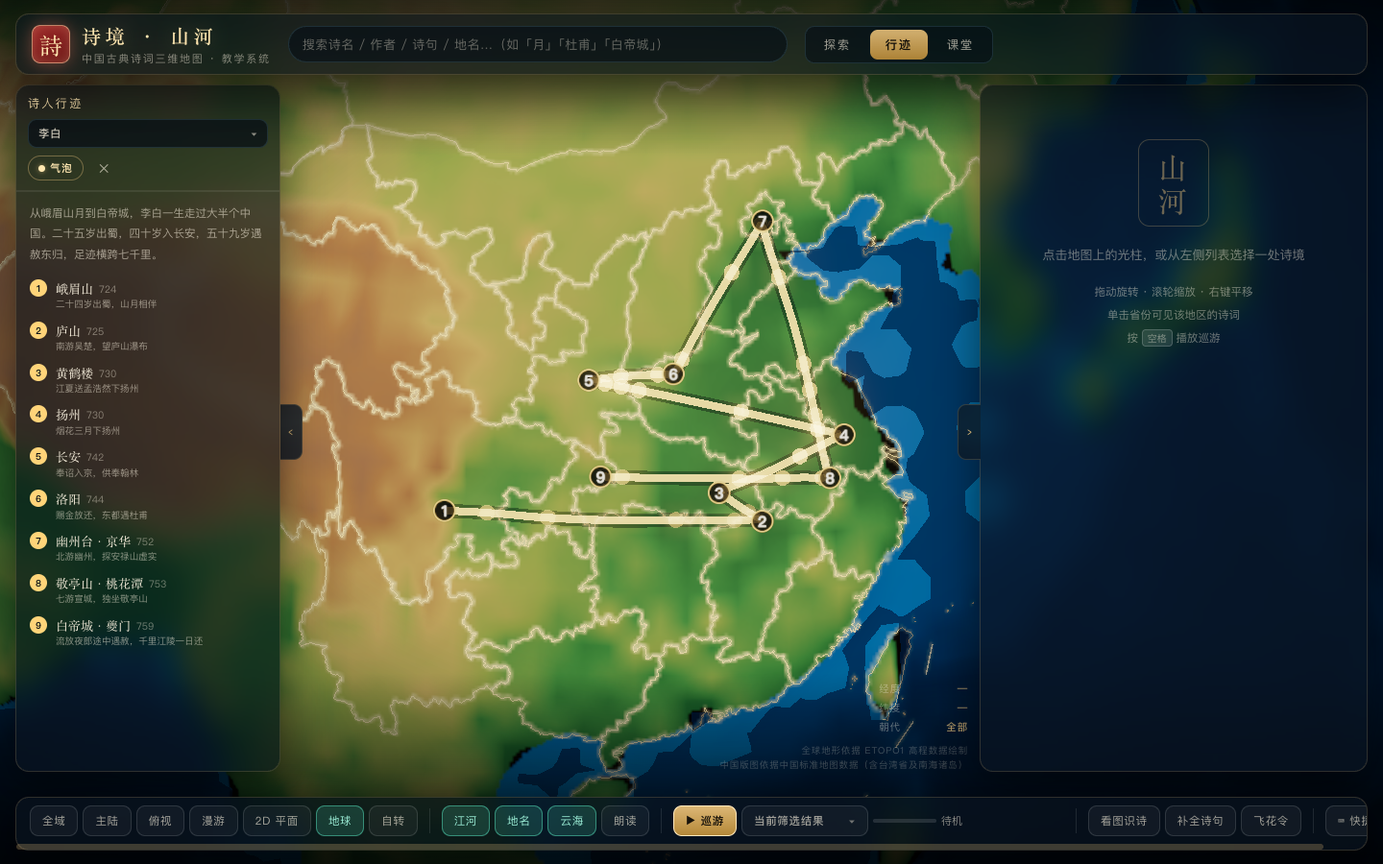
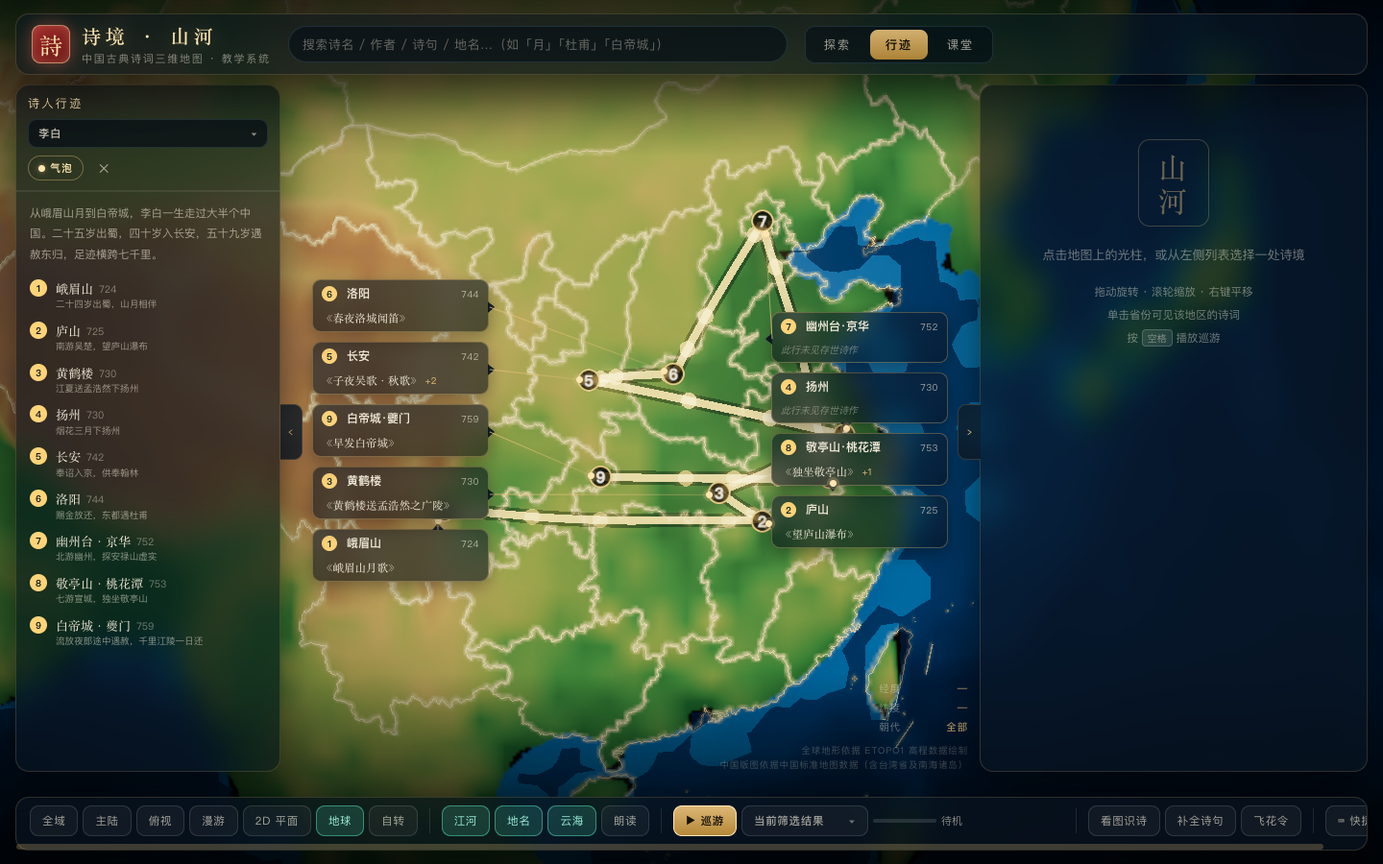
修：地球行迹的诗词卡片整批消失 + 引线端点压在序号数字上
Bug 1：地球模式下选中诗人后，9 张诗词卡片全部消失（2D / 3D 正常）。
  根因是 main.js updateRouteBubbles 在地球分支里借 `!m.sprite.visible` 当可见性闸门。
  这句原先**巧合成立**：setRouteFocus 只隐藏非行迹站点，sprite.visible === true
  恰好等价于「属于本行迹」。上一轮为了让序号牌不被加色白晕洗白，把它改成
  「聚焦时 79 个地标全部收起」，等价关系就断了 —— 9 张卡片全被判不可见，
  而序号牌 / 球面航线 / 右侧面板 / 拾取表**全都正常**。实测 earth 下 kids=9 / shown=0，
  而 front 与 hasMarker 全是 true。
  修法：气泡该不该出现由 bubbleTargets() 自己回答（它只含当前行迹的站点）。
  并在 setRouteFocus / pickables 补上「这个字段只表达『光点画不画』，
  不代表站点是否存在」的注释，免得以后再被借走。

  同源问题：地球地名标注也读 m.sprite.visible，聚焦时整体消失；而 2D / 3D
  读的是 beacon.visible、行迹站点照常标注，两个模式表现不一致。
  但实测地名标注**不该**恢复：地球相机近（1.99）、站点投影铺满全屏，
  与气泡卡片相交 6 对、其中 4 条被卡片中心盖住；3D 版图（相机 12.8、站点挤在中央）
  同样这两个东西是 0 相交。卡片每张头部就写着地名，所以让地名整层让位
  （updateEarthLabels 的 on 闸门加 && !globe.routeFocus）。

Bug 2：2D 与地球模式下，气泡引线在序号侧的米色端点落在序号圆圈正中，
  把数字糊掉（用户截图：长安站的「5」）。
  修法：端点沿引线方向退回到圆圈**边缘**，退回量解 |−u·t − off| = R：
    - R 是圆圈屏幕半径。两份 numberTexture 都是 128px 画布但圆不同 ——
      effects.js 是 arc(46)+lineWidth 5 → ×0.758，globe.js 是 arc(52)+lineWidth 7 → ×0.867；
    - off 是圆心相对锚点的屏幕偏移。锚点并不落在圆心上（3D 下它取
      「牌中心 + 0.31·comp」，约 10px 偏高），只回推一个 R 的话端点停在圆内偏上、
      仍然压着数字（实测 3D 扬州站端点距圆心 3px，而圆圈半径 25px）。
    引线长度同步缩短，否则会穿进圆圈在数字上留一条金线。

  踩到的两个坑：
    - entries 里的 inset 在 ui.updateRouteBubbles 组装 items 时被漏掉
      （items.push 没带它），回推量恒为 0，而卡片 / 引线方向 / 防重叠全都正常；
    - effects.js 的 stops 元素里站点 id 字段叫 siteId，`site` 装的是 beacon 对象，
      写 s.site.id 静默得到 undefined，按 id 找序号牌永远找不到。

回归：
  e2e-earth 119 → 126（卡片节点数 = 站数 / **实际显示数** = 站数 / 内容非空壳 /
[…]

diff --git a/js/main.js b/js/main.js
@@ -1516,7 +1516,16 @@ const placedEarth = [];
 function updateEarthLabels() {
   const layer = document.getElementById('labelLayer');
   const on = state.layers.labels && globe.built && globe.root.visible
-    && camera.position.length() <= EARTH_LABEL_DIST;
+    && camera.position.length() <= EARTH_LABEL_DIST
+    /* 行迹聚焦时整层不标地名。理由不是「地标被隐去了」（那是另一回事，见下），
+       而是**气泡卡片已经承担了地名的职责**：每张卡片头部就是「序号 + 地名 + 年份」，
+       再加一层地名只会互相压住。实测（1440×900，李白行迹 9 站）：
+         3D 版图 —— 地名 7 条 / 气泡 9 张 / 相交 0 对；
+         地球   —— 地名 9 条 / 气泡 9 张 / 相交 6 对，其中 4 条地名被卡片中心盖住。
+       差异来自几何：版图相机在 12.8，站点挤在中央一小块，气泡停在左右空白带里；
+       地球相机在 2.0 上下，站点投影铺满全屏、一直铺进停靠带。
+       让地名让位，比给两层之间加一套互相避让（它们各自每帧独立算，有先后依赖）划算。 */
+    && !globe.routeFocus;
   if (!on) {
     if (layer) layer.style.display = 'none';
     return;
@@ -1529,7 +1538,10 @@ function updateEarthLabels() {
 
   const list = [];
   for (const m of globe.markers) {
-    if (!m.sprite.visible) continue;                 // 行迹聚焦时隐去的站点不标注
+    /* 这里**不要**读 m.sprite.visible。它只表达「这个光点画不画」——
+       行迹聚焦时 setRouteFocus 会把 79 个地标全部收起，照着它过滤等于
+       「选中诗人的瞬间地球上所有地名一起消失」。上面那道闸门才是表达
+       「聚焦时要不要标地名」的地方，几何判断留在这里，两者别混。 */
     const p = m.sprite.position;
     if (p.dot(cam) <= p.lengthSq()) continue;        // 背面：被地球挡住，见 globe.js pickables
     list.push({ m, depth: cam.distanceTo(p) });
@@ -1572,6 +1584,31 @@ function updateEarthLabels() {
   ui.syncLabels(entries);
 }
 
+/* 序号牌贴图里「圆圈外缘半径 ÷ 贴图半宽」。两份 numberTexture 都是 128px 见方的画布，
+   但圆的半径与描边宽度不同：
+     effects.js（地图档）：arc(46) + lineWidth 5 → 外缘 48.5 → 48.5 / 64 = 0.758
+     globe.js（地球档）  ：arc(52) + lineWidth 7 → 外缘 55.5 → 55.5 / 64 = 0.867
+   气泡引线的端点要落在圆圈**边缘**而不是圆心 —— 那枚 7px 的金色圆点（带光晕后
+   视觉直径约 13px）正压在序号数字上会把它糊掉（用户截图：长安站的「5」）。 */
+const BADGE_RING_RATIO = { map: 0.758, earth: 0.867 };
+
+const tmpFwd = new THREE.Vector3();
+
+/**
+ * 序号牌圆圈在屏幕上的半径（px）。
+ *
+ * 序号牌走深度补偿，屏幕尺寸本来就基本恒定，但仍然逐帧算而不是写死像素常数 ——
+ * 以后改了序号牌尺寸 / 取景距离，写死的常数会静默失配，端点又压回数字上，
+ * 而那种退化只能靠肉眼在截图里发现。
+ */
+function badgeRingPx(sprite, ratio) {
+  camera.getWorldDirection(tmpFwd);
+  const d = tmpV.copy(sprite.position).sub(camera.position).dot(tmpFwd);
+  if (!(d > 0.001)) return 0;
+  const texPx = sprite.scale.x / (d * 2 * Math.tan(camera.fov * Math.PI / 360)) * window.innerHeight;
+  return texPx / 2 * ratio;
+}
+
 /**
  * 行迹气泡：把每处行迹地点的三维坐标投影成屏幕坐标，交给 ui 定位。
  *
@@ -1589,15 +1626,38 @@ function updateRouteBubbles() {
   const w = window.innerWidth, h = window.innerHeight;
   const entries = targets.map((t) => {
     let v = null;
+    /* 序号牌圆圈的屏幕半径：引线的端点要从锚点沿引线方向回推这么多，
+       落在圆圈边缘而不是压在数字上（见 BADGE_RING_RATIO）。 */
+    let inset = 0;
+    let badge = null;
     if (state.earth) {
       /* 地球模式下锚点在球面上，必须另算：
          1) 用球面可见性判据（P·C > |P|²）排除背面 —— 引线不该指到球后面去；
-         2) 沿法线再抬一点，让引线落在序号牌上而不是穿进球里。 */
+         2) 沿法线再抬一点，让引线落在序号牌上而不是穿进球里
+            （序号牌建在半径 1.016 处，1.015 正好齐平）。
+
+         ★ 这里**不能**读 m.sprite.visible 当闸门。
+         地标 sprite 在行迹聚焦时会被 globe.setRouteFocus 整批收起（理由见那边：
+         加色白晕比序号牌还大一圈，会透上来把数字洗白），而「收起」表达的是
+         「这个光点不画」，**不是**「这个站点不存在」—— 两件事共用了一个字段，
+         语义被撑坏了。
+
+         早先这里借它当闸门是**巧合成立**的：那时 setRouteFocus 只隐藏「非行迹」
+         站点，于是 sprite.visible === true 恰好等价于「该站点属于本行迹」。
+         改成全部收起之后这个等价关系就断了 —— 9 个气泡全被判不可见，
+         地球模式下行迹的诗词卡片整批消失，而 2D / 3D 好好的
+         （那两边读的是 beacon.visible，与地标 sprite 无关）。
+         实测：earth 下 kids=9 / shown=0，而 front 与 hasMarker 全是 true。
+
+         气泡该不该出现，bubbleTargets() 自己就回答了：它只包含当前行迹的站点。
+         这里只需要回答「它在球正面吗」。 */
       const m = globe.markerOf(t.siteId);
-      if (!m || !m.sprite.visible) return { x: 0, y: 0, visible: false };
+      if (!m) return { x: 0, y: 0, visible: false };
       const p = m.sprite.position;
       if (p.dot(camera.position) <= p.lengthSq()) return { x: 0, y: 0, visible: false };
       v = p.clone().multiplyScalar(1.015);
+      const eb = globe.routeBadges.find((x) => x.siteId === t.siteId);
+      if (eb) { inset = badgeRingPx(eb.sprite, BADGE_RING_RATIO.earth); badge = eb.sprite; }
     } else {
       const b = effects.beacons.get(t.siteId);
       if (!b || !b.visible) return { x: 0, y: 0, visible: false };
@@ -1611,14 +1671,26 @@ function updateRouteBubbles() {
       const comp = b.group.scale.y || 1;
       v = b.group.position.clone();
       v.y += (state.flat ? 0.30 : 2.36) * comp;
+      const mb = effects.routeBadges.find((x) => x.siteId === t.siteId);
+      if (mb) { inset = badgeRingPx(mb.sprite, BADGE_RING_RATIO.map); badge = mb.sprite; }
     }
     const p = v.project(camera);
     const onScreen = p.z < 1 && p.x > -1.05 && p.x < 1.05 && p.y > -1.05 && p.y < 1.05;
-    return {
-      x: (p.x * 0.5 + 0.5) * w,
-      y: (-p.y * 0.5 + 0.5) * h,
-      visible: onScreen,
-    };
+    const ax = (p.x * 0.5 + 0.5) * w;
+    const ay = (-p.y * 0.5 + 0.5) * h;
+
+    /* 锚点**不一定落在序号牌圆心上** —— 3D 下它取的是「牌中心 + 0.31·comp」（约 10px
+       偏高），2D 下也高 0.18·comp。所以只回推一个半径还不够：端点会停在圆内偏上，
+       仍然压着数字（实测 3D 的扬州站端点距圆心只有 3px，而圆圈半径 25px）。
+       这里把「圆心相对锚点的屏幕偏移」也算出来交给 ui，让它按引线方向扣掉。 */
+    let offX = 0;
+    let offY = 0;
+    if (badge) {
+      const q = badge.position.clone().project(camera);
+      offX = (q.x * 0.5 + 0.5) * w - ax;
+      offY = (-q.y * 0.5 + 0.5) * h - ay;
+    }
+    return { x: ax, y: ay, visible: onScreen, inset, offX, offY };
   });
   ui.updateRouteBubbles(entries);
 }

diff --git a/tools/e2e-earth.js b/tools/e2e-earth.js
@@ -503,6 +503,46 @@
       rec('球面序号牌数 = 行迹站数', app.globe.routeBadges.length === nStops,
         `${app.globe.routeBadges.length} / ${nStops}`);
 
+      /* ---- 行迹的诗词卡片（气泡）：地球模式下必须跟着一起显示 ----
+         ★ 这里守的是一个**真漏过**的 bug。原先这一节只查了「序号牌数 = 站数」，
+         而气泡的可见性走的是另一条路 —— main.js updateRouteBubbles 里那句
+         `if (!m || !m.sprite.visible) return {...visible:false}`。
+         它借的是「地标光点画不画」这个字段；setRouteFocus 改成「聚焦时连行迹站点
+         的地标一起收起」（为了不让加色白晕洗白序号牌）之后，这句话就把 9 张卡片
+         整批判成不可见 —— 而序号牌、球面航线、右侧面板、拾取表**全都正常**，
+         所以当时这套测试全绿，是用户截图报上来的。
+         教训：口径要量**实际显示了几张**，不能只量 DOM 里有没有节点 ——
+         节点一直在，只是全被 display:none 了。 */
+      const bubbleShown = () => [...document.querySelectorAll('#bubbleLayer > *')]
+        .filter((el) => getComputedStyle(el).display !== 'none');
+      const bubbleDom = document.querySelectorAll('#bubbleLayer > *').length;
+      rec('带着行迹进地球 → 诗词卡片节点数 = 站数', bubbleDom === nStops, `${bubbleDom} / ${nStops}`);
+      rec('带着行迹进地球 → 诗词卡片真的显示出来（不是被判成不可见）',
+        bubbleShown().length === nStops, `显示 ${bubbleShown().length} / ${nStops}`);
+      /* 卡片内容必须渲染完整。注意**不能**断言「每张都有诗名」——
+         一条行迹里有的站点这位诗人并未留下作品（李白 9 站里有 2 站如此），
+         那种卡片显示的是「此行未见存世诗作」，是正常形态。
+         这里守的是「不能是空壳」：要么诗名、要么那句说明，二者必居其一。 */
+      const withPoem = bubbleShown().filter((el) => el.querySelector('.rb-poem-line')).length;
+      const noPoem = bubbleShown().filter((el) => el.querySelector('.rb-none')).length;
+      rec('诗词卡片带着地名与诗名（无作品的站点要有说明，不能是空壳）',
+        bubbleShown().every((el) => el.querySelector('.rb-name')
+          && (el.querySelector('.rb-poem-line') || el.querySelector('.rb-none'))),
+        `${withPoem} 张有诗名 / ${noPoem} 张写「未见存世诗作」`);
+
+      /* 负向验证：气泡不再借「地标光点画不画」当判据 ——
+         手动把 79 个地标全收起来，卡片不该跟着消失。
+         修复前正是这个状态（sprite.visible 全 false → 9 张全部被判不可见），
+         所以这条在修复前必然变红，不是恒真断言。 */
+      const keepMarkerVis = app.globe.markers.map((m) => m.sprite.visible);
+      app.globe.markers.forEach((m) => { m.sprite.visible = false; });
+      await sleep(400);
+      const shownAfterHide = bubbleShown().length;
+      app.globe.markers.forEach((m, i) => { m.sprite.visible = keepMarkerVis[i]; });
+      await sleep(300);
+      rec('负向验证：把地标光点全收起来，诗词卡片不受影响（没再借 sprite.visible）',
+        shownAfterHide === nStops, `${shownAfterHide} / ${nStops}`);
+
       /* 关键：航线的抬升必须是「贴着地表飞」的量级。
          实测最大半径 = 站点地形半径(≤1.0286) + 抬升(≤0.11)。 */
       let rMax2 = 0;
@@ -599,6 +639,41 @@
       }));
       rec('序号牌就落在站点地标的位置上（取代地标不丢位置）', worstD < 0.05,
         `最大偏差 ${worstD.toFixed(4)} 个地球半径`);
+
+      /* ---- 地名标注：地球行迹聚焦时整层让位 ----
+         理由不是「地标被隐去了」，而是气泡卡片每张头部就写着地名，再加一层会互相压住。
+         实测（1440×900，李白 9 站）：地球这边地名 9 条 / 气泡 9 张时相交 6 对、
+         其中 4 条被卡片中心盖住；而 3D 版图那边同样是这两个东西却是 0 相交 ——
+         差异在几何：版图相机在 12.8，站点挤在中央一小块、气泡停在左右空白带；
+         地球相机在 2.0 上下，站点投影铺满全屏、一直铺进停靠带。
+         口径量**实际显示条数**，不读任何意图字段。 */
+      const earthLabels = () => [...document.querySelectorAll('#labelLayer .map-label')]
+        .filter((el) => getComputedStyle(el).display !== 'none');
+      rec('地球行迹聚焦 → 地名标注整层让位（不与诗词卡片抢位置）',
+        earthLabels().length === 0, `${earthLabels().length} 条`);
+
+      /* 负向验证一：清掉聚焦集合，地名必须回来 ——
+         否则上面那条可能是「地球上本来就不标地名」的恒真断言
+         （比如相机距离超过了 EARTH_LABEL_DIST 闸门）。 */
+      const keepFocus2 = app.globe.routeFocus;
+      app.globe.setRouteFocus(null);
+      await sleep(500);
+      const backLabels = earthLabels().length;
+      rec('负向验证：清掉聚焦集合后地球地名回来（上面那条不是恒真）',
+        backLabels > 0,
+        `${backLabels} 条（相机距离 ${camDist().toFixed(2)}，闸门 ${app.EARTH_LABEL_DIST}）`);
+
+      /* 负向验证二：地名不再借「地标光点画不画」当判据 ——
+         把 79 个地标全收起来，地名不该跟着消失。 */
+      const keepVis2 = app.globe.markers.map((m) => m.sprite.visible);
+      app.globe.markers.forEach((m) => { m.sprite.visible = false; });
+      await sleep(400);
+      const labelsAfterHide = earthLabels().length;
+      app.globe.markers.forEach((m, i) => { m.sprite.visible = keepVis2[i]; });
+      app.globe.setRouteFocus(keepFocus2);
+      await sleep(500);
+      rec('负向验证：把地标光点全收起来，地名不跟着消失（没再借 sprite.visible）',
+        labelsAfterHide === backLabels, `${labelsAfterHide} vs ${backLabels}`);
 
       /* 负向验证：清掉聚焦集合，79 个地标必须全部回来 ——
          否则上面那条可能是「本来就只有 9 个可见」的恒真断言。 */

diff --git a/tools/e2e-region.js b/tools/e2e-region.js
@@ -519,6 +519,69 @@
       }
       rec('气泡之间互不重叠', ov6 === 0, `${ov6} 对重叠`);
 
+      /* 引线在序号侧的端点（.rb-dot）要落在圆圈**边缘**，不能压在序号数字上 ——
+         那枚 7px 的圆点带光晕后视觉直径约 13px，落在圆心上就把数字糊掉了
+         （用户截图：长安站的「5」被盖住）。
+         口径量「端点屏幕位置到序号牌圆心的距离 ÷ 圆圈半径」，落在边缘时 ≈ 1。
+         圆圈半径由 sprite 的屏幕尺寸换算（贴图 128 宽、圆外缘 48.5 → 0.758），
+         与 main.js 的 BADGE_RING_RATIO.map 是同一个数。 */
+      const ringPxOf = (sprite) => {
+        const fwd = new sprite.position.constructor();
+        app.camera.getWorldDirection(fwd);
+        const d = sprite.position.clone().sub(app.camera.position).dot(fwd);
+        if (!(d > 0.001)) return 0;
+        const texPx = sprite.scale.x / (d * 2 * Math.tan(app.camera.fov * Math.PI / 360)) * window.innerHeight;
+        return texPx / 2 * 0.758;
+      };
+      const badgeScreen = (sprite) => {
+        const p = sprite.position.clone().project(app.camera);
+        return { x: (p.x * 0.5 + 0.5) * window.innerWidth, y: (-p.y * 0.5 + 0.5) * window.innerHeight };
+      };
+      const dotRatios = [];
+      const shownBubbles = [...document.querySelectorAll('#bubbleLayer > *')]
+        .filter((el) => getComputedStyle(el).display !== 'none');
+      shownBubbles.forEach((el) => {
+        const id = (el.dataset.key || '').split('#')[0];
+        const badge = (app.effects.routeBadges || []).find((b) => b.siteId === id);
+        const dot = el.querySelector('.rb-dot');
+        if (!badge || !dot) return;
+        const r = dot.getBoundingClientRect();
+        const c = badgeScreen(badge.sprite);
+        const ring = ringPxOf(badge.sprite);
+        if (ring > 0) {
+          dotRatios.push({
+            id,
+            ratio: Math.hypot(r.left + r.width / 2 - c.x, r.top + r.height / 2 - c.y) / ring,
+          });
+        }
+      });
+      const badDots = dotRatios.filter((x) => x.ratio < 0.7);
+      rec('引线端点落在序号圆圈边缘（不压在数字上）',
+        dotRatios.length > 0 && badDots.length === 0,
+        `${dotRatios.length} 个端点，最小比值 ${dotRatios.length ? Math.min(...dotRatios.map((x) => x.ratio)).toFixed(2) : 'n/a'}`);
+
+      /* 负向验证：把端点手动挪回圆心，上面那条必须真的变红 ——
+         否则它可能只是「端点本来就离圆心很远」的恒真断言。
+         用 transform 平移，量完立刻还原（位置是每帧由 JS 重算的，不还原也不影响下一帧，
+         但还原了这条负向验证本身才不会污染后面的断言）。 */
+      if (shownBubbles.length) {
+        const el0 = shownBubbles[0];
+        const id0 = (el0.dataset.key || '').split('#')[0];
+        const b0 = (app.effects.routeBadges || []).find((b) => b.siteId === id0);
+        const d0 = el0.querySelector('.rb-dot');
+        if (b0 && d0) {
+          const c0 = badgeScreen(b0.sprite);
+          const r0 = d0.getBoundingClientRect();
+          d0.style.transform = `translate(${c0.x - (r0.left + r0.width / 2)}px, ${c0.y - (r0.top + r0.height / 2)}px)`;
+          const r1 = d0.getBoundingClientRect();
+          const ratio1 = Math.hypot(r1.left + r1.width / 2 - c0.x, r1.top + r1.height / 2 - c0.y)
+            / (ringPxOf(b0.sprite) || 1);
+          d0.style.transform = '';
+          rec('负向验证：端点被挪回圆心时那条口径确实判得出（比值 < 0.2）',
+            ratio1 < 0.2, `比值 ${ratio1.toFixed(2)}`);
+        }
+      }
+
       // 切换诗人 → 气泡按新诗人的作品刷新（站点名应当与新行迹一致）
       const items7 = [...document.querySelectorAll('#routePoetMenu .route-item')];
       if (items7.length >= 2) {

diff --git a/js/ui.js b/js/ui.js
@@ -1468,7 +1468,11 @@ export class UI {
       if (!e || !e.visible) { el.style.display = 'none'; return; }
       el.style.display = '';
       const size = this._bubbleSizes.get(st.key) || { w: 184, h: 58 };
-      items.push({ ...st, el, ax: e.x, ay: e.y, w: size.w, h: size.h });
+      /* inset 必须跟着一起带下来 —— 它决定端点回推多远（见 place()）。
+         漏掉它的话回推量恒为 0，端点又落回序号牌圆心、把数字压住，
+         而其余一切正常（卡片、引线方向、防重叠都对），只有量端点距离才看得出来。 */
+      items.push({ ...st, el, ax: e.x, ay: e.y, w: size.w, h: size.h,
+        inset: e.inset || 0, offX: e.offX || 0, offY: e.offY || 0 });
     });
     if (!items.length) return;
 
@@ -1528,8 +1532,33 @@ export class UI {
         stemX = Math.max(8, Math.min(w - 8, Math.round(dotX)));
         stemY = edge === 'top' ? 0 : h;
       }
-      const len = Math.hypot(dotX - stemX, dotY - stemY);
+      const span = Math.hypot(dotX - stemX, dotY - stemY);
       const deg = Math.atan2(dotY - stemY, dotX - stemX) * 180 / Math.PI - 90;
+
+      /* 端点（米色小圆点）不能落在序号牌**圆心**上 —— 那枚 7px 的圆点带光晕后
+         视觉直径约 13px，正压在序号数字上就把它糊掉了（用户截图：长安站的「5」）。
+         沿引线方向退回 t，使端点正好落在圆圈边缘：
+             |−u·t − off| = R   →   t = −(u·off) + √((u·off)² + R² − |off|²)
+         其中 u 是从卡片尖端指向锚点的单位向量，R 是圆圈屏幕半径（main.js 逐帧算），
+         off 是**圆心相对锚点的屏幕偏移** —— 锚点并不落在圆心上（3D 下它取的是
+         「牌中心 + 0.31·comp」，约 10px 偏高），只回推一个 R 的话端点会停在圆内偏上，
+         仍然压着数字（实测 3D 的扬州站端点距圆心只有 3px，而圆圈半径 25px）。
+         引线也要跟着缩短同样的量，否则它会穿进圆圈、在数字上留一条金线。 */
+      const ux = span > 0 ? (dotX - stemX) / span : 0;
+      const uy = span > 0 ? (dotY - stemY) / span : 0;
+      const R = it.inset || 0;
+      const offX = it.offX || 0;
+      const offY = it.offY || 0;
+      const proj = ux * offX + uy * offY;
+      const disc = proj * proj + R * R - (offX * offX + offY * offY);
+      let t = R - proj;
+      if (disc > 0) t = -proj + Math.sqrt(disc);
+      /* 下限留 4px：卡片贴得极近时别把引线缩没了 ——
+         那种情况下卡片本身已经压在序号牌上，端点在哪都无所谓了。 */
+      const inset = Math.min(Math.max(0, t), Math.max(0, span - 4));
+      const len = span - inset;
+      const endX = dotX - ux * inset;
+      const endY = dotY - uy * inset;
 
       el.style.setProperty('--tail-x', `${Math.round(stemX)}px`);
       el.style.setProperty('--tail-y', `${Math.round(stemY)}px`);
@@ -1537,8 +1566,8 @@ export class UI {
       el.style.setProperty('--stem-y', `${Math.round(stemY)}px`);
       el.style.setProperty('--stem-h', `${Math.round(len)}px`);
       el.style.setProperty('--stem-r', `${deg.toFixed(1)}deg`);
-      el.style.setProperty('--dot-x', `${Math.round(dotX)}px`);
-      el.style.setProperty('--dot-y', `${Math.round(dotY)}px`);
+      el.style.setProperty('--dot-x', `${Math.round(endX)}px`);
+      el.style.setProperty('--dot-y', `${Math.round(endY)}px`);
     };
 
     groups.forEach(({ side, list }) => {

diff --git a/js/globe.js b/js/globe.js
@@ -806,6 +806,12 @@ export class Globe {
    * 大一圈 —— 透出来的那层光会把整块序号牌洗白（泛光再放大一次，肉眼就是「数字糊了」）。
    * 把地标收掉，序号牌就干净地立在那个位置上；点选仍然可用，因为序号牌自己也在拾取表里
    * （见 pickables）。这与版图那边「2D 下序号牌取代落点圆点」是同一条原则。
+   *
+   * ★ sprite.visible 只表达「这个光点画不画」，**不代表站点是否存在**。
+   * 需要判断「哪些站点属于当前行迹」的地方请读 this.routeFocus，不要读它 ——
+   * 曾经 main.js 有两处（地球气泡、地球地名标注）借它当闸门，只因为当时
+   * 「只隐藏非行迹站点」让 sprite.visible === true 恰好等价于「属于本行迹」。
+   * 改成全部收起之后这个巧合断了：地球模式下行迹的诗词卡片整批消失。
    */
   setRouteFocus(set) {
     this.routeFocus = set || null;
@@ -888,12 +894,16 @@ export class Globe {
    * three.js 的射线检测不做遮挡判断 —— 只把精灵丢进去的话，地球背面那些
    * 被球体挡住的地标照样会被打中，表现为「点空白处却选中了一处看不见的诗境」。
    * 球面可见性判据：表面点 P 对相机 C 可见 ⇔ P·C > |P|²。
+   *
+   * `!m.sprite.visible` 这条闸门过滤掉的是**画面上不存在的对象**，与
+   * 「哪些站点属于本行迹」无关 —— 行迹聚焦时地标被整批收起，所以一律不参与拾取；
+   * 那些站点仍能点中，走的是下面的序号牌（序号牌就建在站点正上方，几乎重合）。
    */
   pickables(camera) {
     const c = camera.position;
     const out = [];
     for (const m of this.markers) {
-      if (!m.sprite.visible) continue;          // 行迹聚焦时隐去的站点不该还能被点中
+      if (!m.sprite.visible) continue;          // 没画出来的东西不该能被点中
       const p = m.sprite.position;
       if (p.dot(c) > p.lengthSq()) out.push(m.sprite);
     }

diff --git a/js/effects.js b/js/effects.js
@@ -499,7 +499,10 @@ export class Effects {
       group.add(sprite);
       // 序号牌锚在站点上，所以用它所属站点的补偿基准，尺寸与该站光柱一致。
       this.routeBadges.push({
-        sprite, pos: s.site.group.position.clone(), refDepth: s.site.refDepth, lift, base: badgeSize,
+        /* 站点 id 在 stops 元素上叫 siteId —— `site` 那个字段装的是 beacon 对象
+           （见 buildRoute 开头的 map），写 `s.site.id` 会静默得到 undefined，
+           气泡那边按 id 找序号牌就永远找不到，端点回推量恒为 0。 */
+        sprite, siteId: s.siteId, pos: s.site.group.position.clone(), refDepth: s.site.refDepth, lift, base: badgeSize,
       });
     });
 
